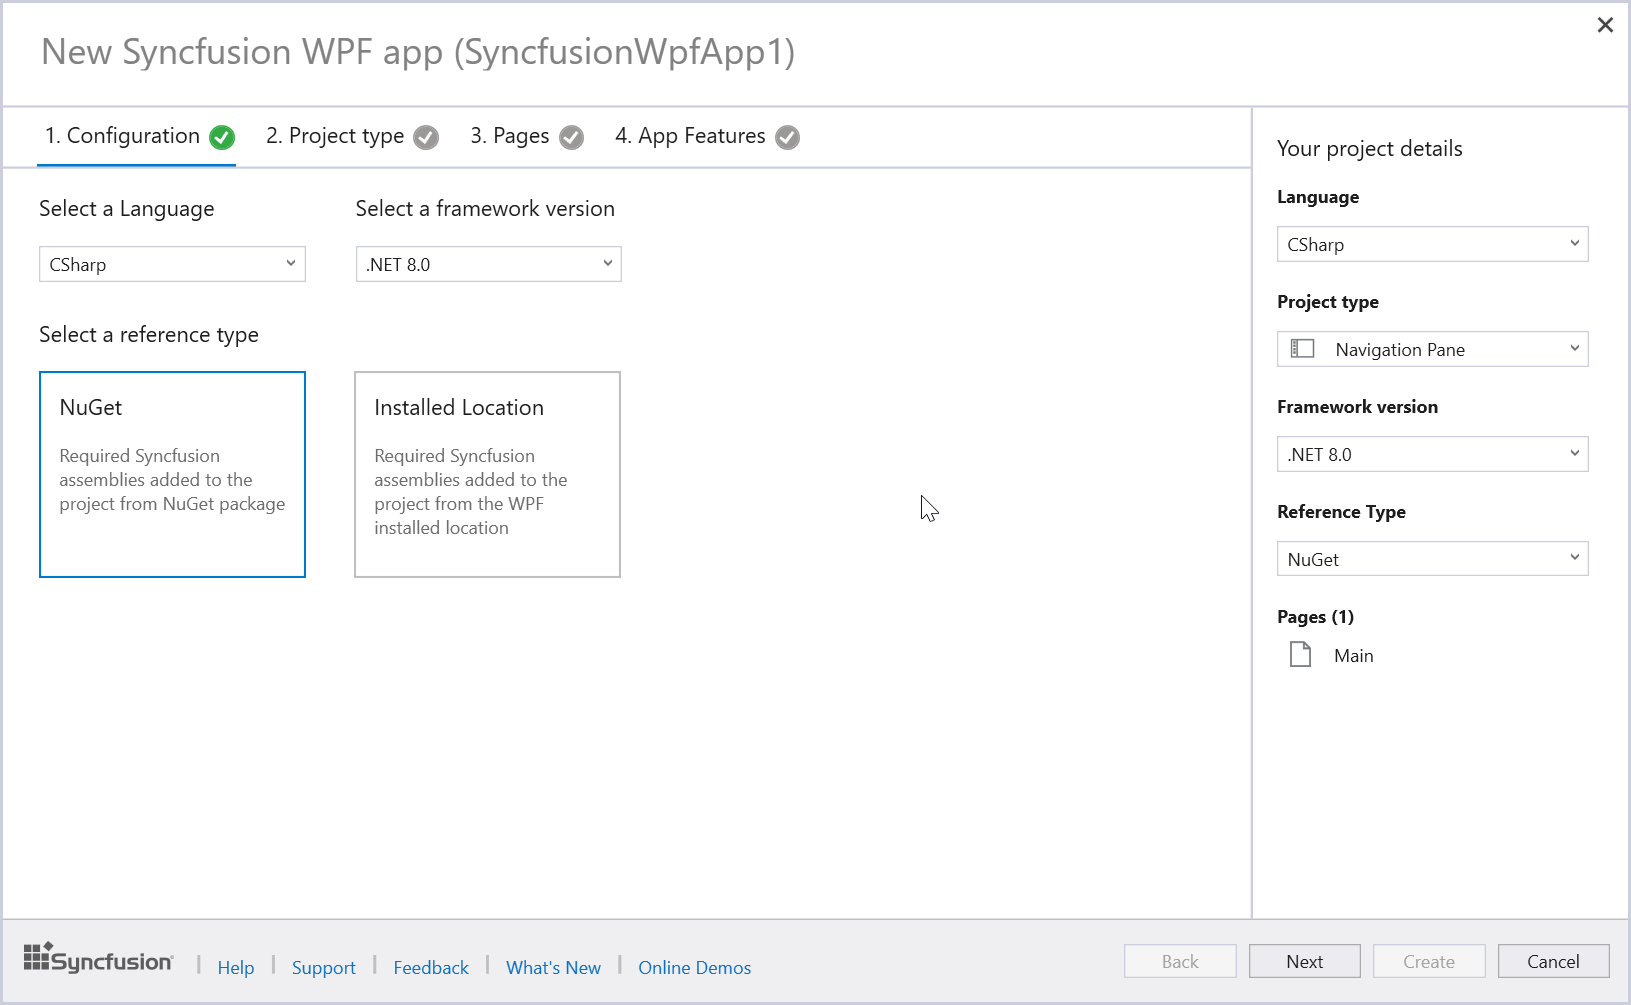
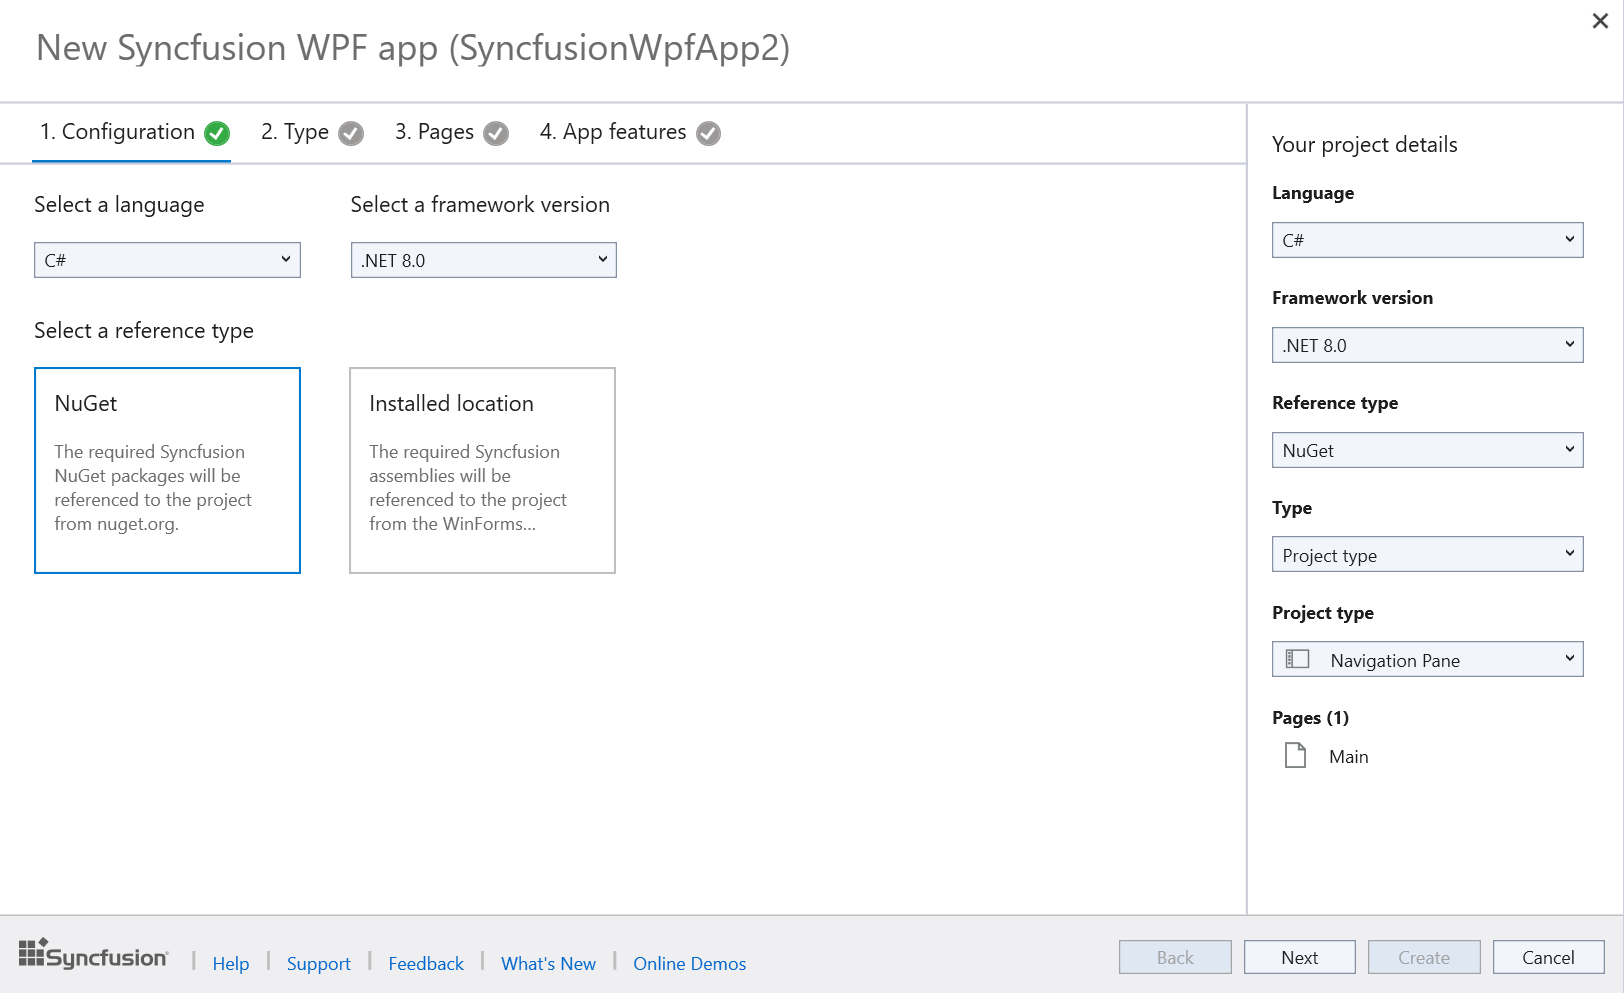
Updated the UG for WPF and WF

diff --git a/wpf/Visual-Studio-Integration/Template-Studio.md b/wpf/Visual-Studio-Integration/Template-Studio.md
@@ -48,11 +48,41 @@ Create the Syncfusion WPF project using the Visual Studio Project Template by fo
 
 	I> Visual Basic Language support is available in WPF Template Studio starting from version 25.1.35.
 
-5.	Click **Next** or navigate to the **Project type** tab, then select the desired Syncfusion WPF application type.
+5.	Click **Next** or navigate to the **Type** tab, then select the desired Syncfusion WPF application type. When selecting the type of template for your application, you have two options:
 
-	![Syncfusion WPF project type selection wizard](Template-Studio-Images/WPF-5.png)
+	![Syncfusion WinForms project type selection wizard](Template-Studio-Images/WPF-4.png)
 
-6.	Click **Next** or navigate to the **Pages** tab to access a list of available Syncfusion WPF components you can add to the application.
+	**Predefined template:** Choose this option to select from 5 predefined templates, including Calendar, Contact, Outlook, Docking Manager, Spreadsheet, Tile view, and Word. By choosing one of these templates, you can create your application without needing to follow any further steps.
+
+	![Syncfusion WinForms Predefined template wizard](Template-Studio-Images/WPFTemplate-6.png)
+
+	**Project type:** Choose this option to select from 4 project types, including Navigation Pane, Blank, Menu Bar, and Ribbon .
+
+	1. Click **Next** or navigate to the **Pages** tab to access a list of available Syncfusion WPF components you can add to the application.
+
+		![Syncfusion WinForms pages selection wizard](Template-Studio-Images/WPF-Page.png)
+
+		To unselect the added control(s), Click ‘x’ for the corresponding control in the control list from the Project Details.
+
+		N> The Control Features option is not accessible for Blank Pages.
+
+	2. Click **Next** or navigate to the **Control Features** tab to view the listed features for the selected controls. From here, choose the features needed.
+
+		![Syncfusion WinForms control features selection wizard](Template-Studio-Images/WPF-Features.png)
+
+	3. Click **Next** or navigate the **App Features** tab to select the desired application features.
+
+		![Syncfusion WinForms app features selection wizard](Template-Studio-Images/WPF-AppFeatures.png)
+
+    	N> The App Features option is not accessible for .NET Framework.	
+
+	**Project Details Section**
+
+	In the **Project Details** section, modify configurations and project types. Additionally, you can remove one or more controls from the selected list and remove the chosen application feature.
+
+	![Syncfusion WinForms project details selection and unselection wizard](Template-Studio-Images/ProjectDetails.png)
+
+    4.	Click **Next** or navigate to the **Pages** tab to access a list of available Syncfusion WPF components you can add to the application.
 
 	![Syncfusion WPF pages selection wizard](Template-Studio-Images/WPF-6.png)
 
@@ -60,11 +90,11 @@ Create the Syncfusion WPF project using the Visual Studio Project Template by fo
 
 	N> The Control Features option is not accessible for Blank, Settings, and Master Detail Pages.
 
-7.	Click **Next** or navigate to the **Control Features** tab to view the listed features for the selected controls. From here, choose the features needed.
+    5.	Click **Next** or navigate to the **Control Features** tab to view the listed features for the selected controls. From here, choose the features needed.
 
 	![Syncfusion WPF control features selection wizard](Template-Studio-Images/WPF-2.gif)
 
-8.	Click **Next** or navigate the **App Features** tab to select the desired application features.
+    6.	Click **Next** or navigate the **App Features** tab to select the desired application features.
 
 	![Syncfusion WPF app features selection wizard](Template-Studio-Images/WPF-7.png)
 
@@ -74,11 +104,11 @@ Create the Syncfusion WPF project using the Visual Studio Project Template by fo
 
 	![Syncfusion WPF project details selection and unselection wizard](Template-Studio-Images/WPF-8.png)
 
-9.	Click **Create** to initiate the process. This action generates the Syncfusion WPF application. The resulting Syncfusion WPF app has the necessary Syncfusion NuGet 	packages, styles, and rendering code specific to the chosen Syncfusion component.
+     7.	Click **Create** to initiate the process. This action generates the Syncfusion WPF application. The resulting Syncfusion WPF app has the necessary Syncfusion NuGet 	packages, styles, and rendering code specific to the chosen Syncfusion component.
 
 	![Syncfusion WPF project created with readme](Template-Studio-Images/WPF-9.png)
 
-10.	The Syncfusion WPF application is configured with the latest versions of Syncfusion WPF NuGet packages, complete with the appropriate namespaces and component 			render code for seamless integration of Syncfusion components.
+     8.	The Syncfusion WPF application is configured with the latest versions of Syncfusion WPF NuGet packages, complete with the appropriate namespaces and component 			render code for seamless integration of Syncfusion components.
 
 	N> The .Net 6.0, .Net 7.0, and .Net 8.0 option will be listed in  Select a framework version	 when only the .Net 6.0, .Net 7.0, and .Net 8.0 SDK setup has been installed.
 
@@ -88,6 +118,6 @@ Create the Syncfusion WPF project using the Visual Studio Project Template by fo
 
 	> .NET 8.0 version is available from v23.2.4 and it support from Visual Studio 2022.
 
-11.	Then, Syncfusion licensing registration required message box will be shown if you installed the trial setup or NuGet packages since Syncfusion introduced the 			licensing system from 2018 Volume 2 (v16.2.0.41) Essential Studio release. Navigate to the [help topic](https://help.syncfusion.com/common/essential-studio/licensing/overview#how-to-generate-syncfusion-license-key), which is shown in the licensing message box to generate and register the Syncfusion license key to your 	project. Refer to this [blog](https://www.syncfusion.com/blogs/post/whats-new-in-2018-volume-2.aspx) post for understanding the licensing changes introduced in 		Essential Studio.
+     9.	Then, Syncfusion licensing registration required message box will be shown if you installed the trial setup or NuGet packages since Syncfusion introduced the 			licensing system from 2018 Volume 2 (v16.2.0.41) Essential Studio release. Navigate to the [help topic](https://help.syncfusion.com/common/essential-studio/licensing/overview#how-to-generate-syncfusion-license-key), which is shown in the licensing message box to generate and register the Syncfusion license key to your 	project. Refer to this [blog](https://www.syncfusion.com/blogs/post/whats-new-in-2018-volume-2.aspx) post for understanding the licensing changes introduced in 		Essential Studio.
 
 	![Syncfusion license registration required information dialog in Syncfusion WPF project](Template-Studio-Images/Syncfusion-Project-Template-Gallery-9.png)   

diff --git a/wpf/Visual-Studio-Integration/Add-Item.md b/wpf/Visual-Studio-Integration/Add-Item.md
@@ -8,9 +8,9 @@ documentation: ug
 ---
 
 
-# Add Syncfusion Components to the WPF Application
+# Add Syncfusion components to the WPF Application
 
-Syncfusion supports Visual Studio Item Templates to add Syncfusion WPF Components to a WPF application with Syncfusion WPF references. 
+Syncfusion provides robust support for Visual Studio Item Templates, which facilitate the seamless integration of Syncfusion WPF components and preconfigured windows into your WPF application. These templates include all necessary Syncfusion WPF libraries, ensuring a smooth development experience.
 
 I> The Syncfusion WPF item templates are available from v19.1.0.54. 
 
@@ -18,7 +18,7 @@ The following steps will guide you to add the Syncfusion WPF Components to your 
 
 > Check whether the **WPF Extensions - Syncfusion** are installed or not in Visual Studio Extension Manager by going to **Extensions -> Manage Extensions -> Installed** for Visual Studio 2019 or later and Visual Studio 2017 or lower by going to **Tools -> Extensions and Updates -> Installed**. If this extension is not installed, please install the extension by following the steps from the [download and installation](https://help.syncfusion.com/wpf/visual-studio-integration/download-and-installation) help topic.
 
-## Add Components using Syncfusion Item Template
+## Add components using Syncfusion Item Template
 
 1.	Open a new or existing WPF application.
 
@@ -37,22 +37,44 @@ The following steps will guide you to add the Syncfusion WPF Components to your 
 
 4.	The Syncfusion WPF Item Template wizard will be launched as follows.
 
-	![Syncfusion WPF Item template Components](Add-Item-images/Add-syncfusion-ui.png)
+	![Syncfusion WPF Item template Components](Add-Item-images/Default-Window-with-Syncfusion-Component.png)
 
-5.	Select the WPF Components from the Component list within your WPF Item Template. The features associated with the selected Component will be presented. From here, 		choose the specific features that are essential for your project.
+5.	Please choose one of the following scenarios to add Syncfusion Window in your application:
+
+    **Default Window with Syncfusion Component:** If you select the **Default** window and then choose any Syncfusion component and the specific features that are essential for your project, the selected component will be added with the default Microsoft window layout.
+
+	![Default Window with Syncfusion Component](Add-Item-images/Default-Window-with-Syncfusion-Component.png)
+
+    **Syncfusion Window with Syncfusion Component:** If you select a Syncfusion window and then choose any Syncfusion component and the specific features that are essential for your project, the selected component will be added with the layout of the selected Syncfusion window.
+
+	![Syncfusion Window with Syncfusion Component](Add-Item-images/Syncfusion-Window-with-Syncfusion-Component.png)
+
+    **Syncfusion Window without Syncfusion Components:** If you select a Syncfusion window and then choose the **Blank** option from the Syncfusion component list, a blank Syncfusion window will be added without any Syncfusion components.
+
+	![Syncfusion Window without Syncfusion Components](Add-Item-images/Syncfusion-Window-without-Syncfusion-Components.png) 
 
 6.	Choose an assembly reference option such as GAC location, Essential Studio installed location, or NuGet packages to specify where the required Syncfusion assemblies 	are added to the project.
 
-	N> If the Syncfusion Essential WPF build is installed, the Installed location and GAC options will be enabled. Without installing the Syncfusion Essential WPF setup, use the NuGet option. The GAC option will not be available when using the Syncfusion WPF Components in a .NET Core application. The Version drop-down lists the installed WPF versions.
+	N> If the Syncfusion Essential WPF build is installed, the Installed location and GAC options will be enabled. Without installing the Syncfusion Essential WPF setup, use the NuGet option. The GAC option will not be available when using the Syncfusion WPF components in a .NET Core application. The Version drop-down lists the installed WPF versions.
 
-7.  Click **Add**, and a pop-up will appear providing information about adding Component **files** and **NuGet/Assemblies** details.
+7.  Click **Add**, and a pop-up will appear providing information about adding component **files** and **NuGet/Assemblies** details.
 
 	![Syncfusion WPF Item template details](Add-Item-images/Add-syncfusion-item-3.png)	
 
-8.	Click **OK** to incorporate the chosen Components into the WPF application, along with the necessary Syncfusion assemblies.
+8.	Click **OK** to incorporate the chosen components into the WPF application, along with the necessary Syncfusion assemblies.
 
 	![Syncfusion WPF Item template Gallery](Add-Item-images/Add-syncfusion-item-details.png)
 
 9.	Then, Syncfusion licensing registration required message box will be shown if you installed the trial setup or NuGet packages since Syncfusion introduced the 			licensing system from 2018 Volume 2 (v16.2.0.41) Essential Studio release. Navigate to the [help topic](https://help.syncfusion.com/common/essential-studio/			licensing/license-key#how-to-generate-syncfusion-license-key), which is shown in the licensing message box to generate and register the Syncfusion license key to 		your project. Refer to this [blog](https://blog.syncfusion.com/post/Whats-New-in-2018-Volume-2-Licensing-Changes-in-the-1620x-Version-of-Essential-Studio.aspx) post 	 for understanding the licensing changes introduced in Essential Studio.
 
     ![Syncfusion WPF Item template Gallery](Add-Item-images/LicensePage.png)
+
+10. To run the application using the selected Syncfusion window, set the added Syncfusion Window as the startup window in your application. This ensures that when you launch the application, it opens with the selected Syncfusion Window.
+
+	**For C#:** Open the **App.xaml** file in your project. Locate the line of code where the main window is being instantiated and set as the startup window.
+
+	![Syncfusion WPF Item template Gallery](Add-Item-images/Window-Change-CSharp.png)
+
+	**For VB:**  Open the **Application.xaml** file in your project. Locate the line of code where the main window is being instantiated and set as the startup window.
+
+	![Syncfusion WPF Item template Gallery](Add-Item-images/Window-Change-VB.png)	
